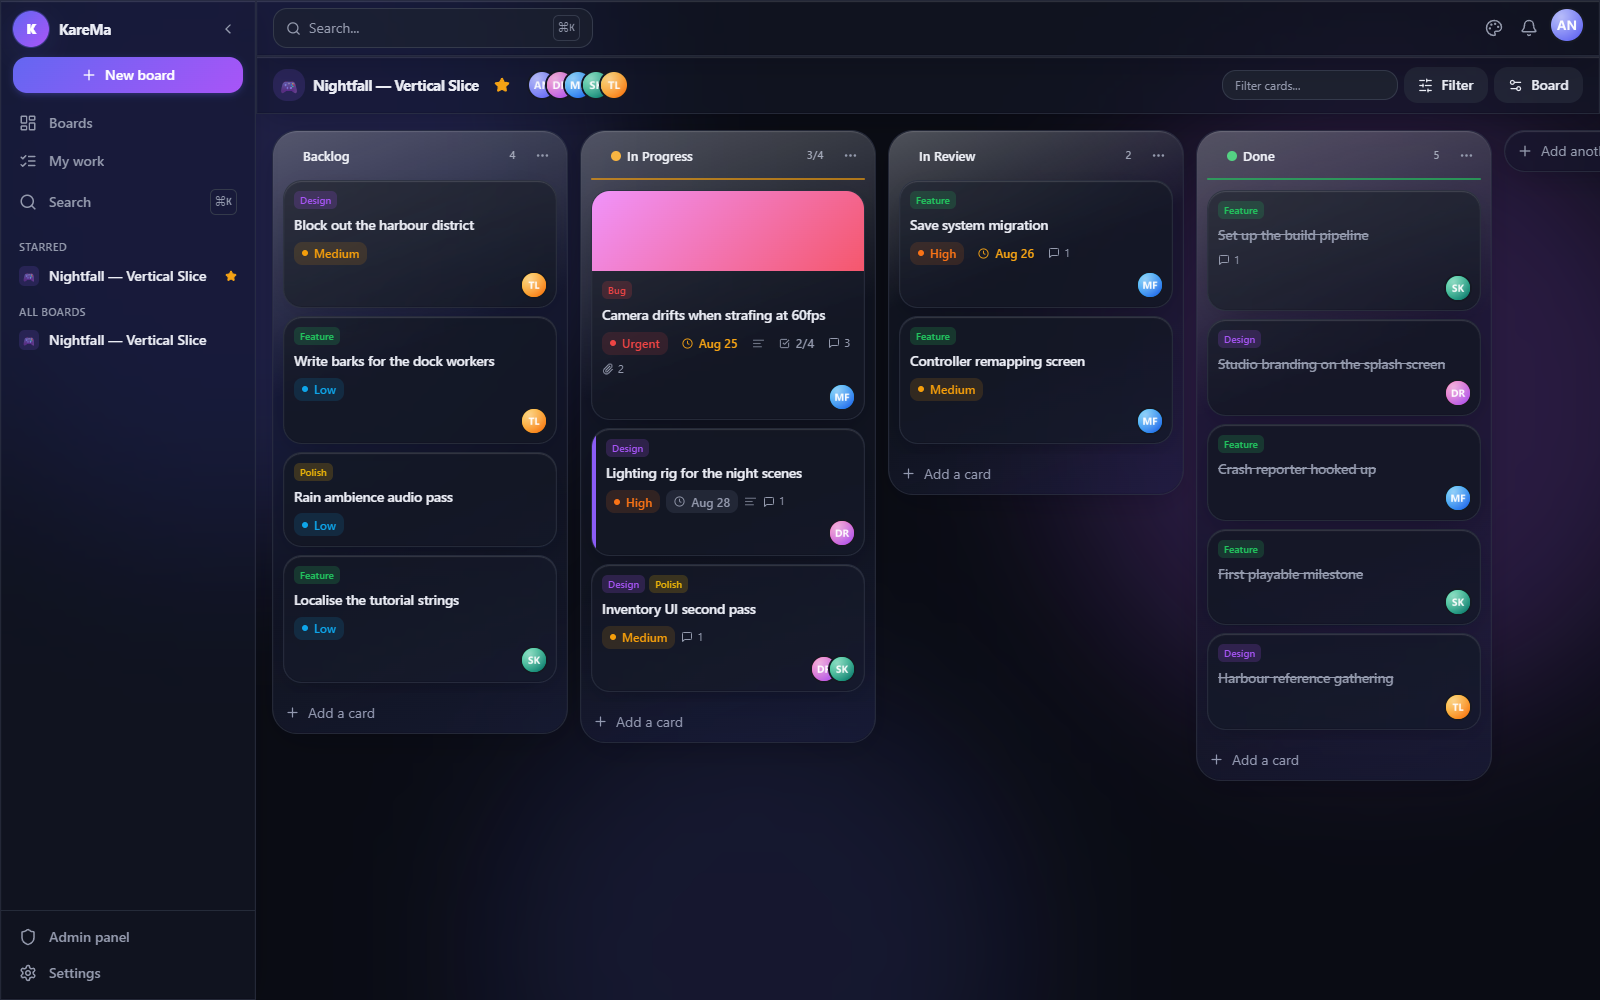
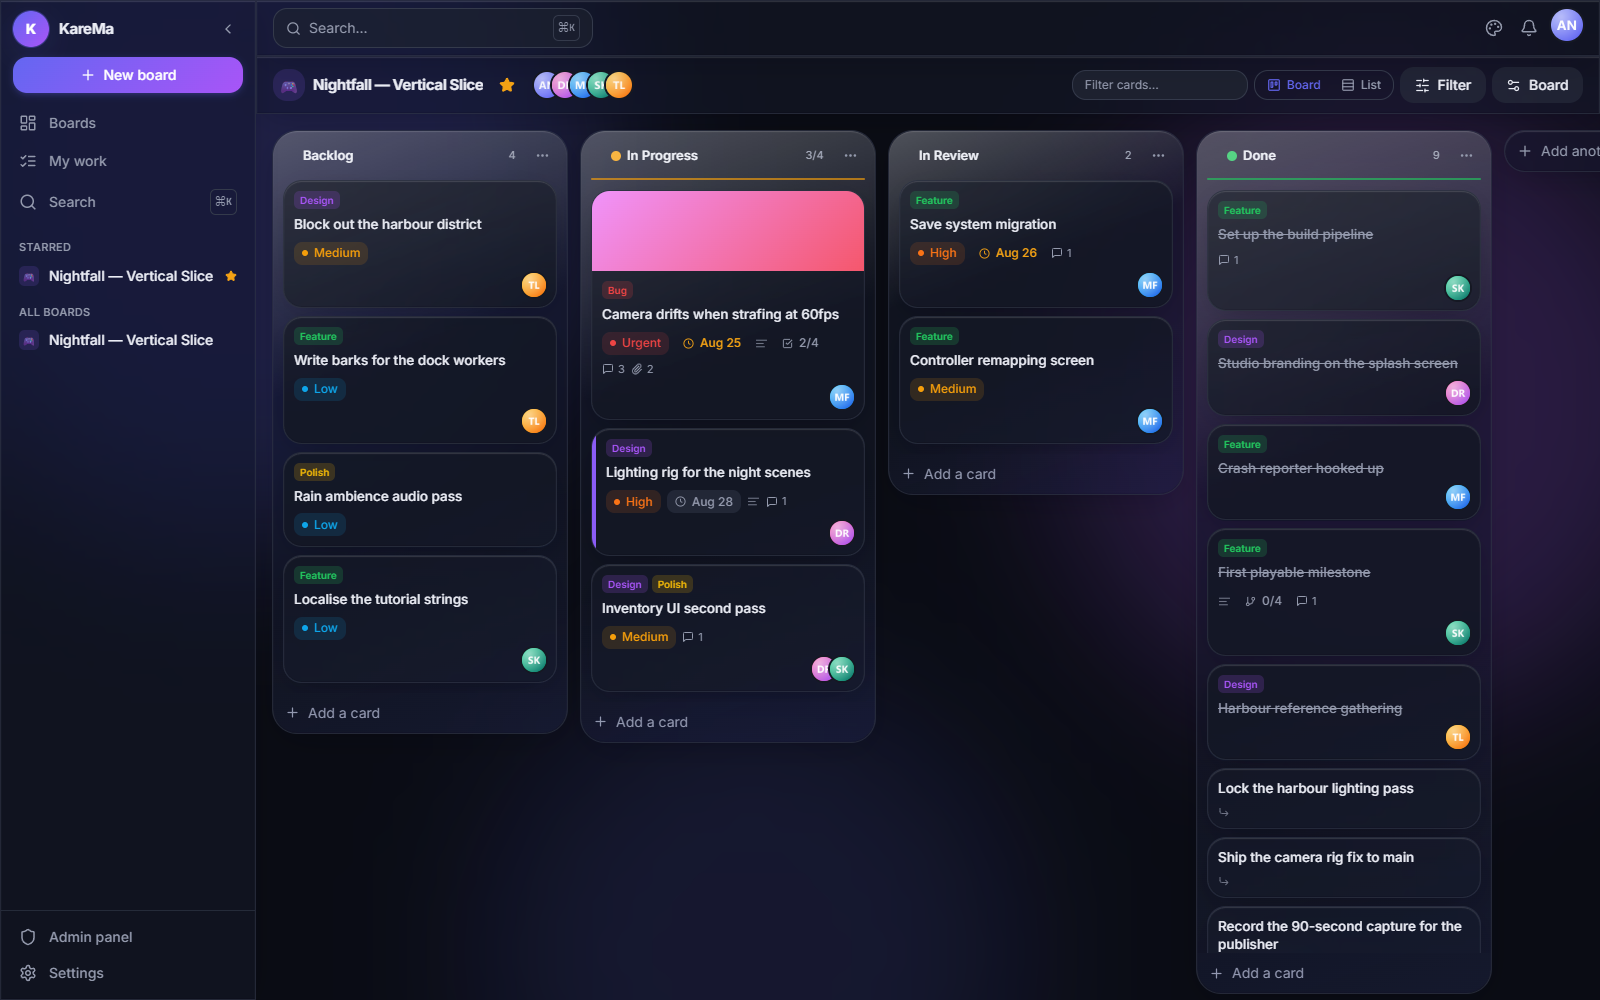
Roles, card hierarchy, rich text and the list view
- Admin-defined roles: a permission map per role, editable from a new Roles tab,
  with the built-in Administrator / Member / Guest kept as system roles. Label
  presets for new boards live in the same tab.
- Card hierarchy: any card can parent another on the same board, with sub-task
  creation, a progress count, a breadcrumb on the child, and cycle refusal.
- Rich text: a formatting toolbar with preview for descriptions and comments,
  storing markdown. The renderer now handles headings, task lists and
  [label](url) links.
- Checklist ticks are logged to the board activity and counted in the admin's
  per-user review.
- List view: a Jira-style sortable table per board with inline status and
  priority edits and foldable sub-task rows.
- Admin user routes still accept the legacy `role` tier alongside `roleId`.

diff --git a/server/src/routes/admin.ts b/server/src/routes/admin.ts
@@ -41,6 +41,18 @@ adminRouter.get('/users', requirePermission('users.manage'), async (_req, res) =
   res.json({ users });
 });
 
+const LEGACY_TIER_KEYS: Record<string, string> = {
+  ADMIN: 'administrator',
+  MEMBER: 'member',
+  GUEST: 'guest',
+};
+
+/** Older clients still send the flat `role` tier instead of a roleId. */
+async function roleFromLegacyTier(tier?: string) {
+  const key = tier ? LEGACY_TIER_KEYS[tier] : undefined;
+  return key ? prisma.role.findUnique({ where: { key } }) : null;
+}
+
 adminRouter.post('/users', requirePermission('users.manage'), async (req, res) => {
   const parsed = z
     .object({
@@ -48,6 +60,7 @@ adminRouter.post('/users', requirePermission('users.manage'), async (req, res) =
       name: z.string().min(1).max(80),
       password: z.string().min(6),
       roleId: z.string().optional(),
+      role: z.enum(['ADMIN', 'MEMBER', 'GUEST']).optional(),
       title: z.string().max(120).optional(),
       avatarColor: z.string().max(32).optional(),
       mustChangePw: z.boolean().optional(),
@@ -62,7 +75,8 @@ adminRouter.post('/users', requirePermission('users.manage'), async (req, res) =
 
   const role = parsed.data.roleId
     ? await prisma.role.findUnique({ where: { id: parsed.data.roleId } })
-    : await prisma.role.findUnique({ where: { key: 'member' } });
+    : (await roleFromLegacyTier(parsed.data.role)) ??
+      (await prisma.role.findUnique({ where: { key: 'member' } }));
   if (!role) return res.status(400).json({ error: 'That role no longer exists' });
 
   const palette = ['#6366f1', '#ec4899', '#f97316', '#10b981', '#0ea5e9', '#8b5cf6', '#f43f5e', '#14b8a6'];
@@ -88,6 +102,7 @@ adminRouter.patch('/users/:id', requirePermission('users.manage'), async (req, r
       name: z.string().min(1).max(80).optional(),
       email: z.string().email().optional(),
       roleId: z.string().optional(),
+      role: z.enum(['ADMIN', 'MEMBER', 'GUEST']).optional(),
       isActive: z.boolean().optional(),
       title: z.string().max(120).nullable().optional(),
       avatarColor: z.string().max(32).optional(),
@@ -107,6 +122,9 @@ adminRouter.patch('/users/:id', requirePermission('users.manage'), async (req, r
   if (parsed.data.roleId && parsed.data.roleId !== target.roleId) {
     nextRole = await prisma.role.findUnique({ where: { id: parsed.data.roleId } });
     if (!nextRole) return res.status(400).json({ error: 'That role no longer exists' });
+  } else if (!parsed.data.roleId && parsed.data.role && parsed.data.role !== target.role) {
+    nextRole = await roleFromLegacyTier(parsed.data.role);
+    if (!nextRole) return res.status(400).json({ error: 'That role no longer exists' });
   }
 
   const willAdmin =
@@ -122,6 +140,7 @@ adminRouter.patch('/users/:id', requirePermission('users.manage'), async (req, r
   }
 
   const data: any = { ...parsed.data };
+  delete data.role; // derived from the role record below
   if (data.email) data.email = data.email.trim().toLowerCase();
   if (nextRole) {
     data.roleId = nextRole.id;

diff --git a/web/src/lib/utils.ts b/web/src/lib/utils.ts
@@ -81,6 +81,7 @@ export function renderRichText(input: string): string {
       .replace(/"/g, '&quot;');
 
   const blocks: string[] = [];
+  const links: string[] = [];
   let text = esc(input);
 
   // fenced code first, stashed so nothing else touches it
@@ -95,6 +96,11 @@ export function renderRichText(input: string): string {
     .replace(/\*\*([^*\n]+)\*\*/g, '<strong>$1</strong>')
     .replace(/(^|[\s(])\*([^*\n]+)\*/g, '$1<em>$2</em>')
     .replace(/~~([^~\n]+)~~/g, '<del>$1</del>')
+    // [label](url) — stashed so the bare-url linker below cannot chew the href
+    .replace(/\[([^\]\n]+)\]\((https?:\/\/[^\s)]+)\)/g, (_m, label, href) => {
+      links.push(`<a href="${href}" target="_blank" rel="noopener noreferrer">${label}</a>`);
+      return `KMLINK${links.length - 1}KMLINK`;
+    })
     .replace(
       /(https?:\/\/[^\s<]+)/g,
       '<a href="$1" target="_blank" rel="noopener noreferrer">$1</a>'
@@ -168,7 +174,8 @@ export function renderRichText(input: string): string {
 
   return out
     .join('\n')
-    .replace(/KMCODE(\d+)KMCODE/g, (_m, i) => blocks[Number(i)]);
+    .replace(/KMCODE(\d+)KMCODE/g, (_m, i) => blocks[Number(i)])
+    .replace(/KMLINK(\d+)KMLINK/g, (_m, i) => links[Number(i)]);
 }
 
 /** Strip mention syntax down to plain "@Name" for previews. */

diff --git a/web/src/components/board/BoardListView.tsx b/web/src/components/board/BoardListView.tsx
@@ -187,7 +187,7 @@ export function BoardListView({
         <div className="overflow-x-auto">
           <table className="w-full min-w-[46rem] text-sm">
             <thead>
-              <tr className="border-b border-line/70 text-left text-[11px] uppercase tracking-wide text-muted">
+              <tr className="border-b border-line/70 text-left text-[11px] tracking-wide text-muted">
                 {COLUMNS.map((col) => (
                   <th key={col.key} className={cn('px-3 py-2.5 font-semibold', col.className)}>
                     <button

diff --git a/README.md b/README.md
@@ -28,7 +28,7 @@ machine in your office and takes one double-click to start.
 
 - **One command to deploy.** Docker does the rest — database, file storage, web server.
 - **Nothing leaves the building.** No accounts to create anywhere, no telemetry, no bill.
-- **Small enough to read.** ~11k lines of TypeScript across an API and a React app.
+- **Small enough to read.** ~14k lines of TypeScript across an API and a React app.
 
 ---
 
@@ -50,6 +50,40 @@ land on your screen as they happen — no refresh, no lost work.
   what is hidden
 - **Search everything** with `Ctrl` + `K` from anywhere
 - **My work** gathers every card assigned to you across all boards, grouped by urgency
+
+### Two ways to look at the same work
+
+<img src="docs/screenshots/list-view.png" alt="The Jira-style list view">
+
+Every board flips between the **Kanban board** and a **list view** modelled on Jira's,
+with one click in the header. The list is not a read-only export — it is the same board:
+
+- Sortable columns for key, summary, status, priority, assignee and due date
+- **Change status or priority inline** from the row; changing status moves the card
+  between lists exactly as dragging it would
+- **Sub-tasks nest under their parent** and fold away with a chevron
+- Card key (`#13`), comment and attachment counts, labels and avatars all in one line
+- Your choice of view is remembered per board
+
+### Cards inside cards
+
+<img src="docs/screenshots/card-subtasks.png" alt="A card with sub-tasks and a rich description">
+
+Any card can be the parent of any other card on the same board. Break an epic into
+sub-tasks from the card itself, attach an existing card to a parent, or detach it again.
+The parent shows a progress bar and a live `2/4` count, each child links straight to its
+own card, and a breadcrumb on the child points back up. Cycles are refused, and deleting
+a parent leaves its children standing on their own rather than taking them with it.
+
+### A real editor for descriptions and comments
+
+<img src="docs/screenshots/rich-editor.png" alt="The rich text editor toolbar">
+
+Descriptions and comments get a formatting toolbar: **bold**, *italic*, `inline code`,
+headings, bulleted, numbered and task lists, quotes, fenced code blocks and links —
+with `Ctrl` + `B` / `I` / `E` / `K` shortcuts and a **Preview** tab. It writes plain
+markdown, so what you type stays readable and portable, and `@mentions` keep working
+inside it.
 
 ### Conversations that carry their evidence
 
@@ -84,13 +118,31 @@ The rest of the panel handles the ordinary things: create accounts, set access l
 reset passwords, deactivate or delete people, and see every board, card and byte of
 attachment storage on the instance.
 
-Three access levels:
+### Roles you define yourself
 
-| Level | Can do |
+<img src="docs/screenshots/admin-roles.png" alt="The roles tab of the admin panel">
+
+KareMa ships with three built-in roles — **Administrator**, **Member** and **Guest** —
+but an administrator can create as many more as the studio needs: *Producer*,
+*Tech Artist*, *Publisher QA*, whatever fits. Each role is a named colour plus a set of
+permissions:
+
+| Permission | What it grants |
 | --- | --- |
-| **Administrator** | Everything, including the admin panel and the user reviews |
-| **Member** | Create boards, and edit the boards they belong to |
-| **Guest** | Read-only, unless invited to a specific board as a member |
+| `admin.access` | Open the admin panel |
+| `users.manage` | Create, edit, deactivate and delete people |
+| `roles.manage` | Add, edit and delete roles |
+| `reports.view` | Review anyone's work |
+| `labels.manage` | Edit the label presets |
+| `boards.create` | Create new boards |
+| `boards.viewAll` | See every board on the instance |
+| `boards.deleteAny` | Delete any board |
+
+Board membership stays separate — that is still set per board as Owner, Admin, Member or
+Viewer. Changing a role takes effect on the next request, no re-login needed.
+
+The same tab holds the **label presets**: the labels every new board starts with, edited
+once instead of on every board.
 
 New accounts can be handed a temporary password; that person is then required to choose
 their own the first time they sign in. The last active administrator can never be
@@ -335,14 +387,17 @@ deliberately does not do.
 ```
 server/                    Node 22 · TypeScript · Express · Prisma · Socket.IO
   prisma/schema.prisma     the entire data model, one file
-  src/lib/                 auth, permissions, realtime, notifications, uploads, ordering
+  src/lib/                 auth, roles, permissions, realtime, notifications,
+                           uploads, ordering
   src/routes/              auth · admin · users · boards · lists · cards
                            comments · attachments · notifications · search
 web/                       React 18 · TypeScript · Vite · Tailwind · dnd-kit
   src/lib/theme.ts         the theming engine — modes, colours, glass, density
+  src/lib/utils.ts         the markdown renderer behind descriptions and comments
   src/styles/index.css     design tokens, liquid glass, component classes
-  src/components/board/    card tile, list column, card modal, comments, pickers
-  src/components/admin/    the per-user review panel
+  src/components/board/    card tile, list column, card modal, list view,
+                           rich text editor, sub-tasks, comments, pickers
+  src/components/admin/    the roles tab and the per-user review panel
   src/pages/               login · dashboard · board · my work · settings · admin
 ```
 
@@ -360,6 +415,13 @@ A few decisions worth knowing about:
   the board in question. The frontend hiding a button is never what protects the data.
 - **Comment attachments are card attachments with a `commentId`.** They stay out of the
   card's own attachment list, and they are cleaned off disk when the comment goes.
+- **Roles are rows, not an enum.** A role carries a permission map, so adding a
+  permission is a checkbox rather than a migration. The old three-tier column is still
+  written alongside it, which keeps older API clients working.
+- **Rich text is stored as markdown, not HTML.** Nothing user-written is ever inserted
+  as raw HTML — the renderer escapes first and builds the markup itself.
+- **The list view is the board.** It reads the same lists and cards; changing a row's
+  status moves the card between lists through the same endpoint dragging uses.
 
 ---
 
@@ -398,6 +460,7 @@ Being straight about the edges, so nobody is surprised:
 - No email — notifications are in-app only, so there is no SMTP to configure
 - No calendar or Gantt view; dates live on cards and in **My work**
 - No time tracking, sprints or story points
+- Card hierarchy is one parent per card, on the same board — not a cross-board tree
 - No mobile apps — the web UI is responsive and works on a phone browser
 - No SSO / LDAP; accounts are created by an administrator in the admin panel
 
